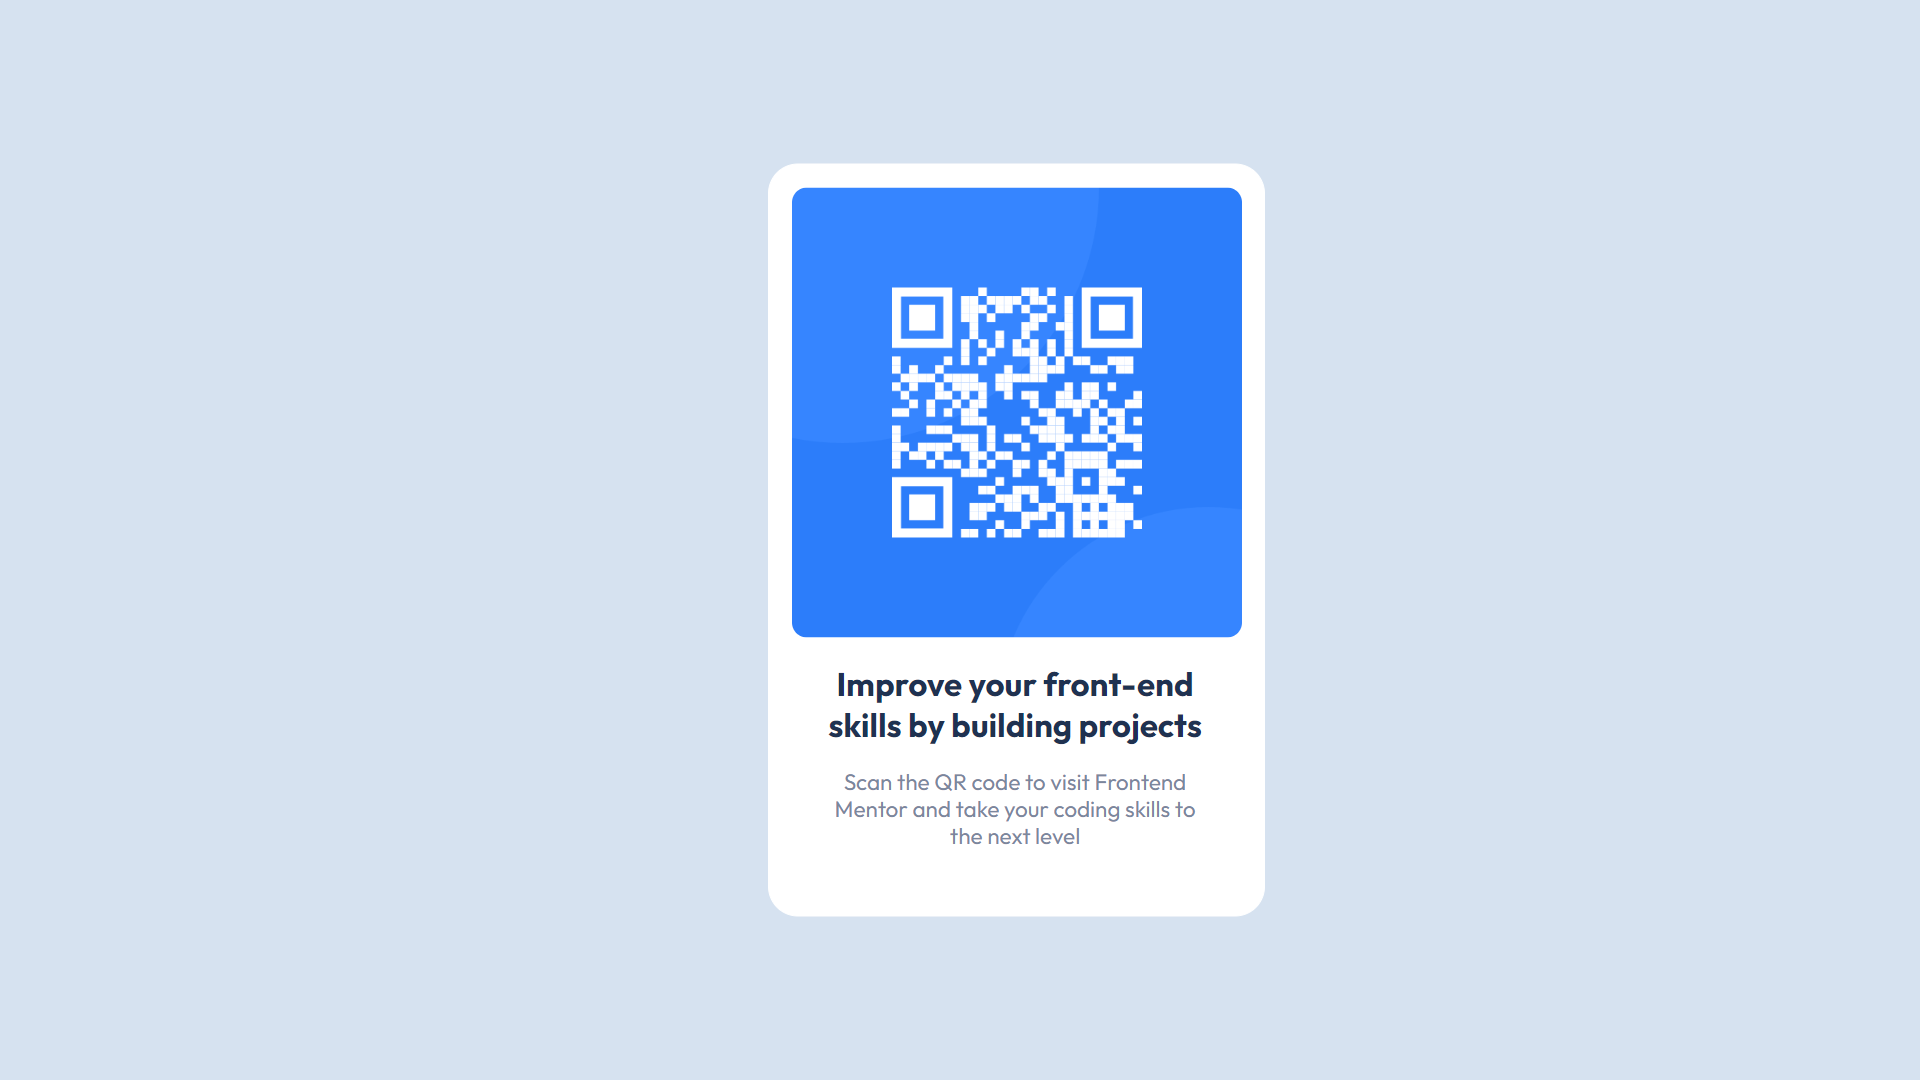
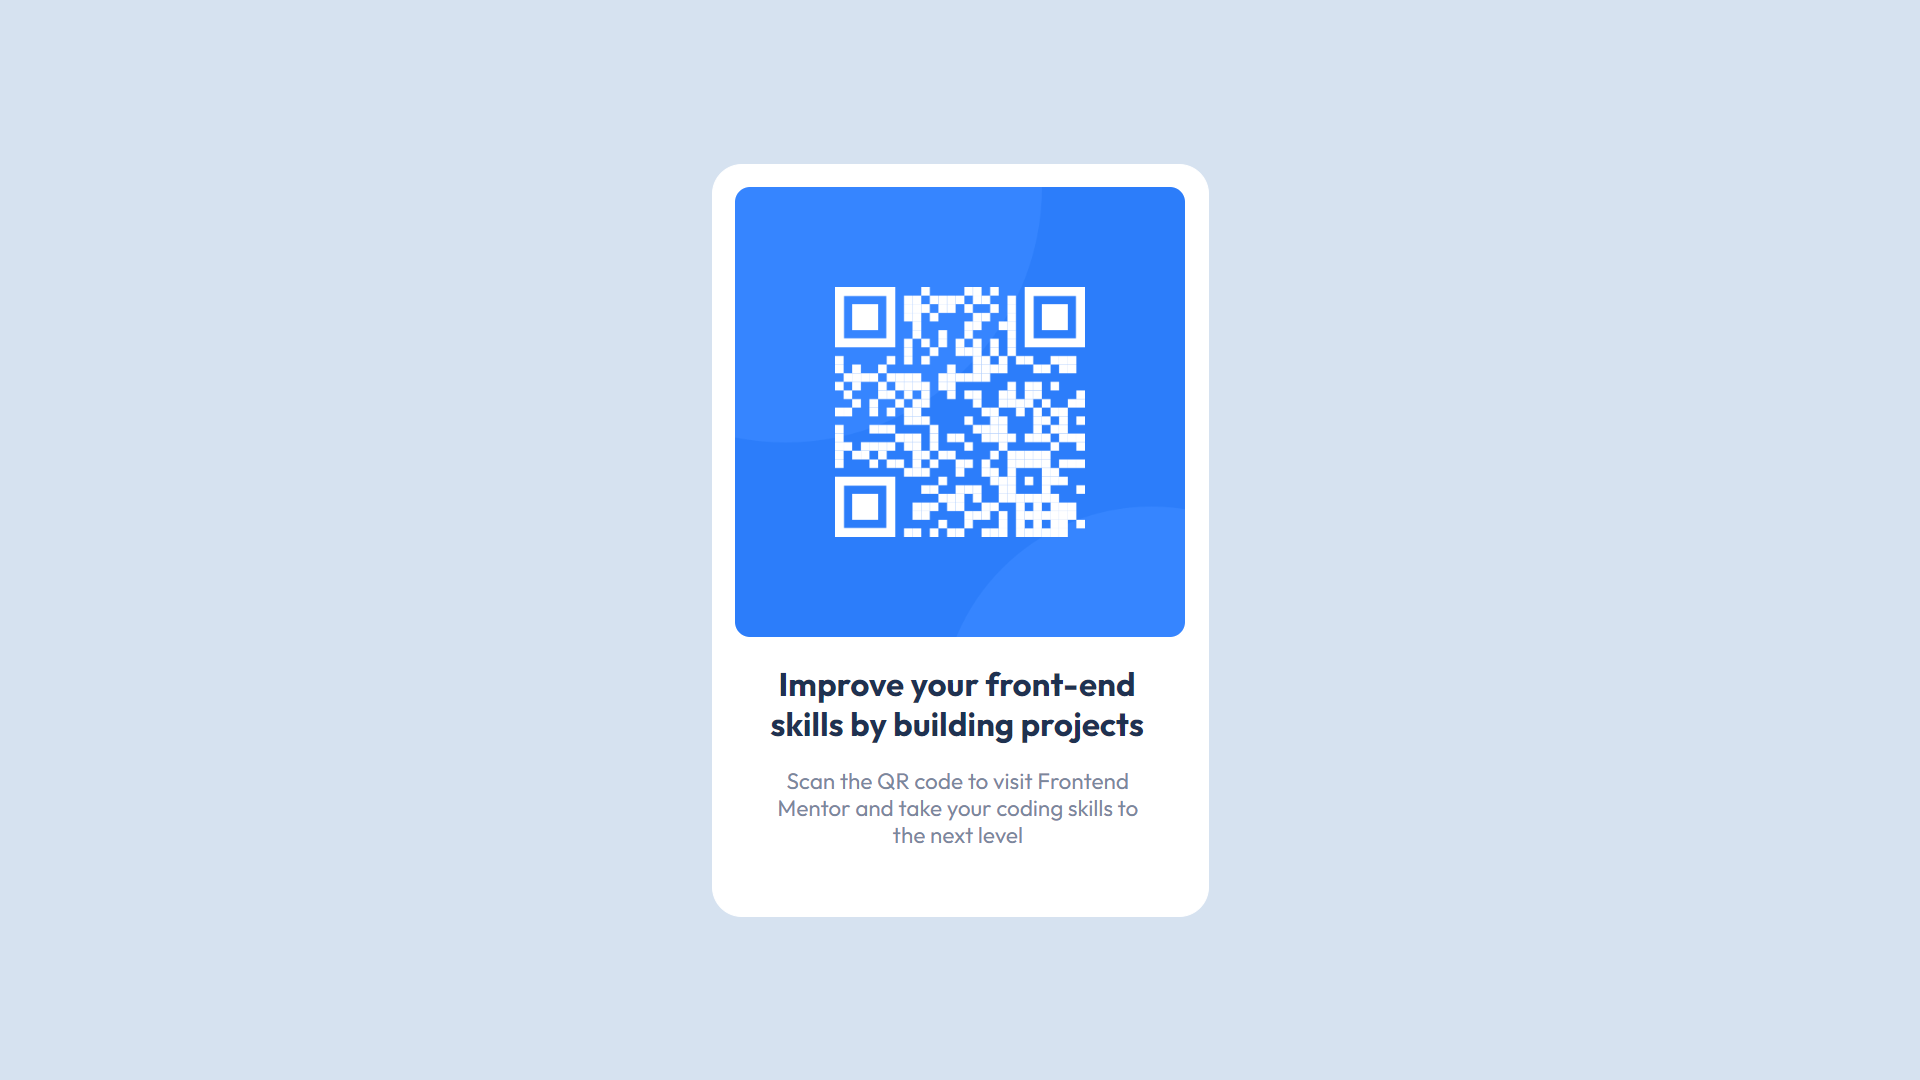
Add files via upload

Changed region(s): [[0.3438, 0.1528, 0.6562, 0.8556]]

diff --git a/assets/stylesheets/main.css b/assets/stylesheets/main.css
@@ -51,11 +51,11 @@ table {
 Sizing
 */
 
-header {
+img {
     width: 300px;
 }
 
-h1, h4 {
+h1, h2 {
     width: 264px;
 }
 
@@ -64,33 +64,26 @@ h1 {
     line-height: 27px;
 }
 
-h4 {
+.title {
+    padding-left: 16px;
+}
+
+h2 {
     padding-bottom: 15px;
     line-height: 18px;
 }
 
-footer {
-    padding-left: 17px;
-    width: 283px;
-}
-
-/*
-Position
-*/
-
-html {
-    display: inline-block;
-    width: 20%;
-    margin-left: auto;
-    margin-right: auto;
+.sub {
     text-align: center;
+    padding-left: 7px;
+    width: 283px;
 }
 
 /*
 Fonts
 */
 
-h1, h4 {
+h1, h2 {
     font-family: "Outfit";
 }
 
@@ -99,17 +92,16 @@ h1 {
     font-size: 22px;
 }
 
-h4 {
+h2 {
     font-weight: 400;
     font-size: 15px;
 }
 
 /*
-Image
+Additional img properties
 */
 
 img {
-    width: 300px;
     margin: 0;
     border: 0;
     padding; 0;
@@ -124,19 +116,11 @@ html {
     background-color: hsl(212, 45%, 89%);
 }
 
-header {
-    background-color: hsl(0, 0%, 100%);
-}
-
-footer {
-    background-color: hsl(0, 0%, 100%);
-}
-
 h1 {
     color: hsl(218, 44%, 22%);
 }
 
-h4 {
+h2 {
     color: hsl(220, 15%, 55%);
 }
 
@@ -148,14 +132,24 @@ div {
     width: 300px;
     padding: 15px;
     padding-bottom: 30px;
+  }
+
+/*
+**V2** using flexbox to center the card
+*/
+
+body {
+    display: flex;
+    align-items: center;
+    justify-content: center;
+    height: 100vh;
+    margin: 0;
+}
+
+.container {
+    background-color: #fff;
     border: 1px solid #fff;
     border-radius: 20px;
-    background-color: #fff;
-/*
-Below is how to center the div vertically
-*/
-    position: absolute;
-    top: 50%;
-    -ms-transform: translateY(-50%);
-    transform: translateY(-50%);
-  }
+    text-align: center;
+ }
+

diff --git a/index.html b/index.html
@@ -8,13 +8,13 @@
         <link rel="preconnect" href="https://fonts.gstatic.com" crossorigin>
         <link href="https://fonts.googleapis.com/css2?family=Outfit:wght@100..900&display=swap" rel="stylesheet">
     </head>
-    <div>
-        <header>
-            <img src="image-qr-code.png" alt="QR code for Frontend Mentor's webpage">
-        </header>
-        <footer>
-            <h1>Improve your front-end skills by building projects</h1>
-            <h4>Scan the QR code to visit Frontend Mentor and take your coding skills to the next level</h4>
-        </footer>
-    </div>
+    </main>
+        <body>
+            <div class="container">
+                <img src="image-qr-code.png" alt="QR code for Frontend Mentor's webpage">
+                <h1 class="title">Improve your front-end skills by building projects</h1>
+                <h2 class="sub">Scan the QR code to visit Frontend<br>Mentor and take your coding skills to<br>the next level</h2>
+            </div>
+        </body>
+    </main>
 </html>

diff --git a/README.md b/README.md
@@ -9,12 +9,11 @@ This is a solution to the [QR code component challenge on Frontend Mentor](https
   - [Links](#links)
 - [My process](#my-process)
   - [Built with](#built-with)
-  - [What I learned](#what-i-learned)
 - [Author](#author)
 
 ## Overview
 
-This is a webpage with a QR code for Frontend Mentor's website and some text about it.
+This is a webpage with a QR code for Frontend Mentor's website and some text about it. Updated to include proper usage of flexbox to center the card. Credit to @FazeenIjaz on Frontend Mentor for explaining to me that I need a container class for flexbox to work properly!
 
 ### Screenshot
 
@@ -22,60 +21,25 @@ This is a webpage with a QR code for Frontend Mentor's website and some text abo
 
 ### Links
 
-- Solution URLs: [html file](QRcode.html)
-[css file](assets/stylesheets/main.css)
+- Solution URLs: [Github](https://github.com/nathangrissett/QR-code)
+[Live Site](https://nathangrissett.github.io/QR-code/)
 
 ## My process
 
-I started with writing the HTML only. I put the image on top of the text. The image was my header. The text was my footer. I used h1 and h4 for my text elements.
+I started with writing the HTML only. I put the image on top of the text. All contents are contained in the body (no header or footer). I used h1 and h2 for my text elements.
 
-I then wrote the CSS. As this is my first project, I went through a bit of trial and error here. I started by resizing the image. I then centered all elements horizontally (more on this in "What I learned"). I then installed and embedded the font. I then added borders, padding, and line heights (more on this in "What I learned"). I then centered all elements vertically (more on this in "What I learned").
+I then wrote the CSS, in this order: 
+1. resized the image.
+2. installed and embedded the font
+3. added padding and line heights to the text elements/classes
+4. added borders
+5. added colors
+6. used flexbox to center the card (again, credit to @FazeenIjaz for explaining exactly how to do this)
 
 ### Built with
 
 - HTML
 - CSS
-
-### What I learned
-
-I had trouble centering the elements horizontally. At first, I was able to do it by simply aligning the text to the center. At the time, the text was in a body element rather than a footer element, which caused the image to follow the text to the center. But when I changed the width of the text elements, the text went to the left again, while the image stayed in the center. I had to Google how to move elements to the horizontal center, and this is the code that worked.
-
-```
-html {
-    display: inline-block;
-    width: 20%;
-    margin-left: auto;
-    margin-right: auto;
-    text-align: center;
-}
-```
-
-While adding padding and borders, I realized that the element's box in the browser did not move with the element's contents when padding or borders were added (easily seen with Developer Tools in Chrome). This meant that the alignment of background colors wasn't right. To fix this, I put a div element around the entirety of the header and footer sections and changed the width of the div.
-
-```
-div {
-    width: 300px;
-    /* same width as the image (header), this solved the background of the text (footer) being too small and aligned with the left of the image rather than the center */
-    padding: 15px;
-    padding-bottom: 30px;
-    border: 1px solid #fff;
-    border-radius: 20px;
-    background-color: #fff;
-/*...*/
-  }
-```
-
-After the div element was added, the webpage looked exactly as it does now, except the elements were only aligned to the center horizontally; they was aligned to the top vertically. I had trouble centering them vertically too, so I Googled solutions and this code is what worked.
-
-```
-div {
-/*...*/
-    position: absolute;
-    top: 50%;
-    -ms-transform: translateY(-50%);
-    transform: translateY(-50%);
-  }
-```
 
 ## Author
 
